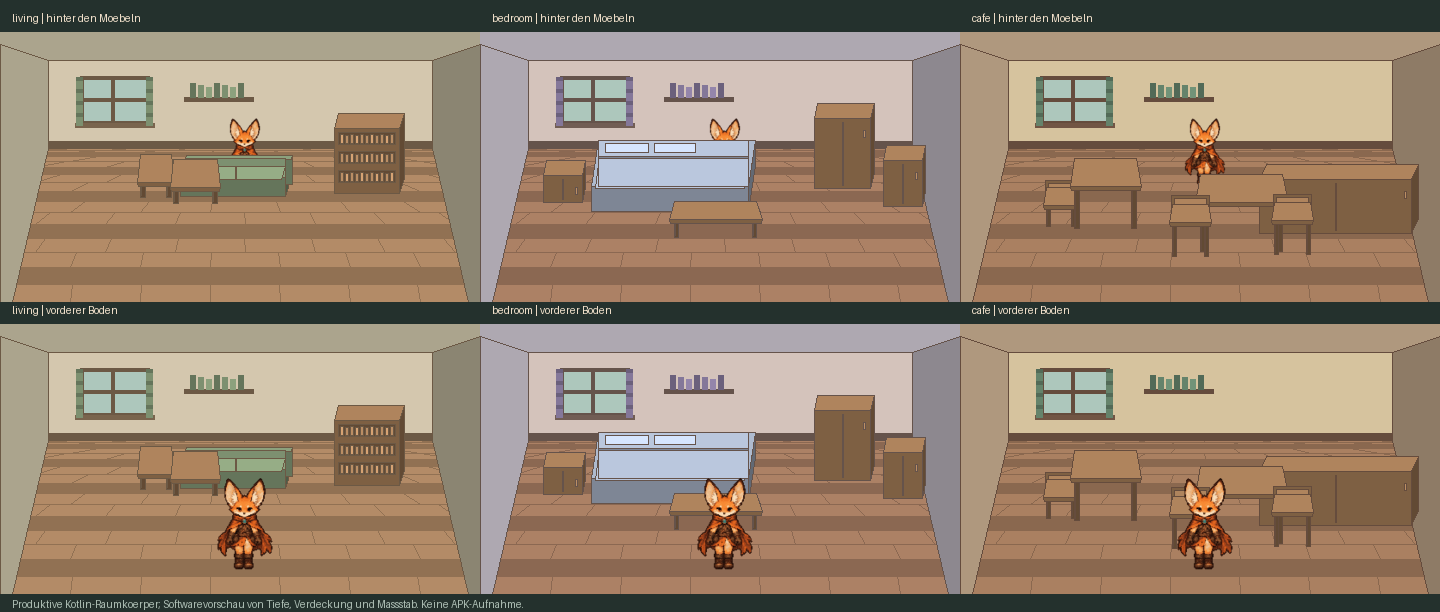
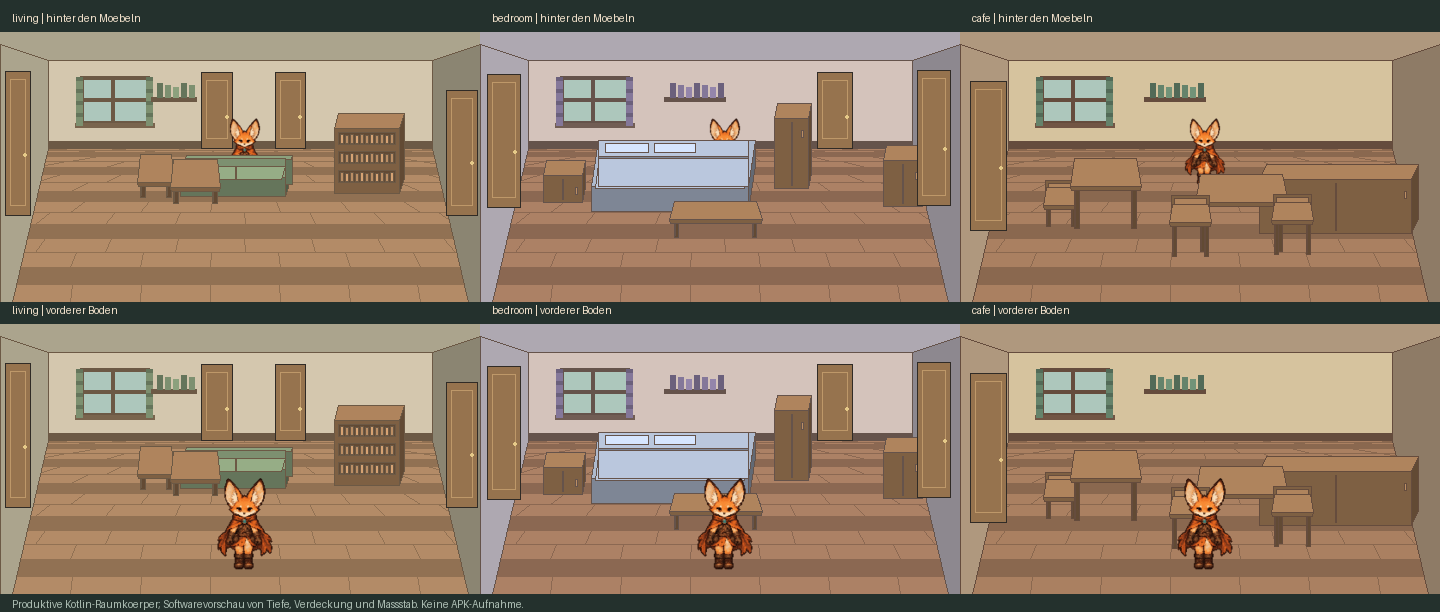
Game: keep room doors clear of furniture and wall decor
Move bedroom wardrobe away from bathroom door, keep shelf and mirror clear,
and include doors in reproducible room previews. Add doorway regression.
Native API 26 (116 tests) and API 35 passed on 3987cf4; final head rechecked in CI.

diff --git a/app-sim/src/main/java/com/notime/glyphsim/ui/GameSpatialRoomView.kt b/app-sim/src/main/java/com/notime/glyphsim/ui/GameSpatialRoomView.kt
@@ -73,8 +73,10 @@ internal fun DrawScope.paintRoomSpace(scene: GameScenes.Scene, fit: GameScenes.F
             val dx=GameFabric.hangingOffset(row/12f,.5f,.10f,clock,scene.place.ordinal)
             rect(x+dx,45f+row*4f,6f,4.1f,shade(Color(palette.accent),if(row%3==0) -1 else 0))
         }
-        rect(184f,65f,69f,4f,Color(palette.trim))
-        for (i in 0..6) rect(190f+i*8f,51f+(i%3)*2f,5f,14f-(i%3)*2f,shade(Color(palette.accent),i%3-1))
+        val shelfX=if(scene.place==PlayScene.Place.LIVING) 151f else 184f
+        val shelfCount=if(scene.place==PlayScene.Place.LIVING) 5 else 7
+        rect(shelfX,65f,shelfCount*8f+5f,4f,Color(palette.trim))
+        for (i in 0 until shelfCount) rect(shelfX+6f+i*8f,51f+(i%3)*2f,5f,14f-(i%3)*2f,shade(Color(palette.accent),i%3-1))
         when(scene.place) {
             PlayScene.Place.CAFE -> {
                 rect(287f,41f,98f,56f,Color(palette.trim))
@@ -85,15 +87,15 @@ internal fun DrawScope.paintRoomSpace(scene: GameScenes.Scene, fit: GameScenes.F
                 }
             }
             PlayScene.Place.BEDROOM -> {
-                rect(322f,43f,43f,48f,Color(palette.trim))
-                rect(326f,47f,35f,40f,Color(0xFFBACACB))
-                face(listOf(326f to 47f,342f to 47f,361f to 77f,361f to 87f),Color(0xFFD6DEDA),false)
+                rect(388f,43f,43f,48f,Color(palette.trim))
+                rect(392f,47f,35f,40f,Color(0xFFBACACB))
+                face(listOf(392f to 47f,408f to 47f,427f to 77f,427f to 87f),Color(0xFFD6DEDA),false)
             }
             else -> {
-                rect(290f,46f,50f,38f,Color(palette.trim))
-                rect(294f,50f,42f,30f,Color(0xFF9AB7AA))
-                face(listOf(294f to 80f,310f to 60f,324f to 74f,336f to 63f,336f to 80f),Color(0xFF63856D),false)
-                rect(321f,53f,5f,5f,Color(0xFFE7CF94))
+                rect(350f,46f,50f,38f,Color(palette.trim))
+                rect(354f,50f,42f,30f,Color(0xFF9AB7AA))
+                face(listOf(354f to 80f,370f to 60f,384f to 74f,396f to 63f,396f to 80f),Color(0xFF63856D),false)
+                rect(381f,53f,5f,5f,Color(0xFFE7CF94))
             }
         }
         for(lamp in GameLightingCatalog.rooms[scene.place]?.lamps.orEmpty()) {

diff --git a/tools/reaction-preview/src/RoomSpacePreview.kt b/tools/reaction-preview/src/RoomSpacePreview.kt
@@ -13,6 +13,8 @@ fun main(args: Array<String>) {
             }
             "{\"id\":\"${body.piece.id}\",\"material\":\"${body.material}\",\"top\":${body.piece.top},\"ground\":${body.piece.ground},\"faces\":[$faces]}"
         }
+        val doors=GameWorld.passages(place).filter { it.door }.map { GameDoors.aperture(it.from,it.to) }
+            .distinct().joinToString(",") { "[${it.x0},${it.y0},${it.x1},${it.y1}]" }
         val species=AvatarSpecies.FENNEC
         val positions=listOf(GameScenes.posAt(scene,245f,153f),GameScenes.posAt(scene,245f,245f))
         val avatars=positions.joinToString(",") { p ->
@@ -20,6 +22,6 @@ fun main(args: Array<String>) {
             "{\"x\":$x,\"y\":$y,\"height\":${GameCharacterScale.visibleHeight(scene,p,species)}}"
         }
         File(output,"${place.name.lowercase()}.json").writeText(
-            "{\"place\":\"$place\",\"palette\":[${listOf(palette.wall,palette.side,palette.floor,palette.trim,palette.accent).joinToString(",")}],\"bodies\":[$bodies],\"avatars\":[$avatars]}")
+            "{\"place\":\"$place\",\"palette\":[${listOf(palette.wall,palette.side,palette.floor,palette.trim,palette.accent).joinToString(",")}],\"doors\":[$doors],\"bodies\":[$bodies],\"avatars\":[$avatars]}")
     }
 }

diff --git a/app-sim/src/test/java/com/notime/glyphsim/matrix/GameRoomSpaceTest.kt b/app-sim/src/test/java/com/notime/glyphsim/matrix/GameRoomSpaceTest.kt
@@ -75,4 +75,14 @@ class GameRoomSpaceTest {
         assertEquals(supported.height,next.height,.001f)
         assertTrue(GameScenes.feet(scene,next.pos).second-next.height>rearTop)
     }
+
+    @Test fun `Die Badezimmertuer steht frei statt vor einem Schrankkoerper`() {
+        val scene=GameWorld.scene(PlayScene.Place.BEDROOM)!!
+        val door=GameDoors.aperture(scene.place,PlayScene.Place.BATH)
+        for(body in GameRoomSpace.bodies(scene)) {
+            if(body.piece.left<door.x1 && body.piece.right>door.x0) {
+                assertTrue(body.piece.id,body.faces.flatMap { it.points }.minOf { it.second }>door.y1)
+            }
+        }
+    }
 }

diff --git a/app-sim/src/main/java/com/notime/glyphsim/matrix/GameFurniture.kt b/app-sim/src/main/java/com/notime/glyphsim/matrix/GameFurniture.kt
@@ -113,7 +113,7 @@ object GameFurniture {
                 body("living-bookcase", 334f, 404f, 71f, 161f),
                 table("living-side-table", 137f, 174f, 145f, 165f))
             PlayScene.Place.BEDROOM -> listOf(
-                body("bedroom-wardrobe", 334f, 394f, 59f, 156f),
+                body("bedroom-wardrobe", 294f, 331f, 59f, 156f),
                 body("bedroom-dresser", 403f, 445f, 111f, 174f),
                 body("bedroom-footbench", 189f, 282f, 175f, 205f, 180f, setOf(S.SEAT)),
                 table("bedroom-nightstand", 63f, 105f, 133f, 170f))

diff --git a/tools/character-art/room_space_preview.py b/tools/character-art/room_space_preview.py
@@ -42,13 +42,20 @@ def room(data, rear):
     for x in (76,146):
         for row in range(12):
             draw.rectangle((x,45+row*4,x+6,49+row*4),fill=shade(accent,-1 if row%3==0 else 0))
-    draw.rectangle((184,65,253,69),fill=trim)
-    for i in range(7):
-        draw.rectangle((190+i*8,51+(i%3)*2,195+i*8,65),fill=shade(accent,i%3-1))
+    shelf = 151 if data["place"] == "LIVING" else 184
+    count = 5 if data["place"] == "LIVING" else 7
+    draw.rectangle((shelf,65,shelf+count*8+5,69),fill=trim)
+    for i in range(count):
+        draw.rectangle((shelf+6+i*8,51+(i%3)*2,shelf+11+i*8,65),fill=shade(accent,i%3-1))
     materials={'UPHOLSTERY':accent,'LINEN':(155,166,184),'METAL':(171,191,181),'TILE':(185,206,191),'WOOD':(156,118,83)}
     for body in data['bodies']:
         for face in body['faces']:
             draw.polygon([tuple(p) for p in face['points']],fill=shade(materials[body['material']],face['shade']),outline=trim)
+    for x0,y0,x1,y1 in data.get('doors',[]):
+        draw.rectangle((x0,y0,x1,y1),fill=(48,43,38))
+        draw.rectangle((x0+1,y0+1,x1-1,y1-1),fill=(150,115,78))
+        draw.rectangle((x0+5,y0+8,x1-5,y1-10),outline=(190,152,105))
+        draw.ellipse((x1-7,y0+(y1-y0)*.58-1,x1-4,y0+(y1-y0)*.58+2),fill=(229,201,136))
     avatar=data['avatars'][0 if rear else 1]
     sheet=Image.open(ROOT/'app-sim/src/main/assets/creatures/fennec.png').convert('RGBA')
     sprite=sheet.crop((104*128,0,105*128,128))

diff --git a/docs/itoeva2-character-motion.md b/docs/itoeva2-character-motion.md
@@ -68,7 +68,7 @@ das Game zeichnet beides zusaetzlich.
 ## Pruefstand und naechster Schritt
 
 Der erste Charakterschnitt hatte 1.024 reine Kotlin-Tests gruen. Die Fortsetzung
-erweitert auf 1.038 Tests; der finale Lauf und Android-CI stehen im PR.
+erweitert auf 1.039 Tests; der finale Lauf und Android-CI stehen im PR.
 Die instrumentierten Zeichentests rendern alle sechs Wesen
 mit echten Android-Bitmaps, pruefen transparente Raender/Boden und die beim
 Spiegeln unveraenderte physische Lichtseite.
@@ -186,5 +186,9 @@ Sprung beobachten. Gehen/Rennen in vier Richtungen mit allen Wesen vergleichen.
 Schwimmen vor/zurueck/seitlich und ohne Eingabe pruefen. In Wohnzimmer, Schlafzimmer
 und Cafe hinter/zwischen Moebeln gehen, sitzen, auf Tisch/Bett springen, Tueren
 wechseln und Licht an/aus pruefen. Pixelstil, Raumweite und Figurenmassstab beurteilen.
-Der native Canvas-Test prueft die Raumzeichnung ohne Hintergrundbitmap. Bildrate,
+Der native Canvas-Test prueft die Raumzeichnung ohne Hintergrundbitmap.
+Android-CI auf `3987cf4`: 116 instrumentierte Game-Tests auf API 26 und die
+App-Tests auf API 35 bestanden; finale Nachpruefung der kleinen Tuer-/Schrank-
+Korrektur auf dem aktuellen PR-Head. Der Schlafzimmerschrank steht neben dem
+Badezimmerdurchgang, Wandregal und Spiegel lassen die Tuerblaetter frei. Bildrate,
 Klang am Lautsprecher und die gemeldete Bedienung auf Martins APK bleiben offen.

diff --git a/EVOLUTION.md b/EVOLUTION.md
@@ -701,7 +701,7 @@ formulieren, aber keine offene Option als bereits beschlossene Richtung darstell
   ausgefallener Decoder wird neu gestartet. Aktivierte Musik folgt im Game dem
   Medienregler, nicht stummem Klingeln. Musik-Aus/Fremdton und bisherige App-1-/
   Stream-Klingelsperre bleiben wirksam. Kein Systemlautstaerke-/Focus-Eingriff.
-- **TESTED BEHAVIOR / Pruefstand:** 1.038 reine Tests im erweiterten Gesamtlauf;
+- **TESTED BEHAVIOR / Pruefstand:** 1.039 reine Tests im erweiterten Gesamtlauf;
   finale Resultate/Android-CI im PR. Native Tests fuer Pointerbefehl bis zum
   Sprungmotor, echte Raum-Canvaszeichnung, alle sechs Spritearten und ausgelieferten
   Musikdecoder. Softwarevorschauen lesen produktive Kotlin-Netze/Raumkoerper.
